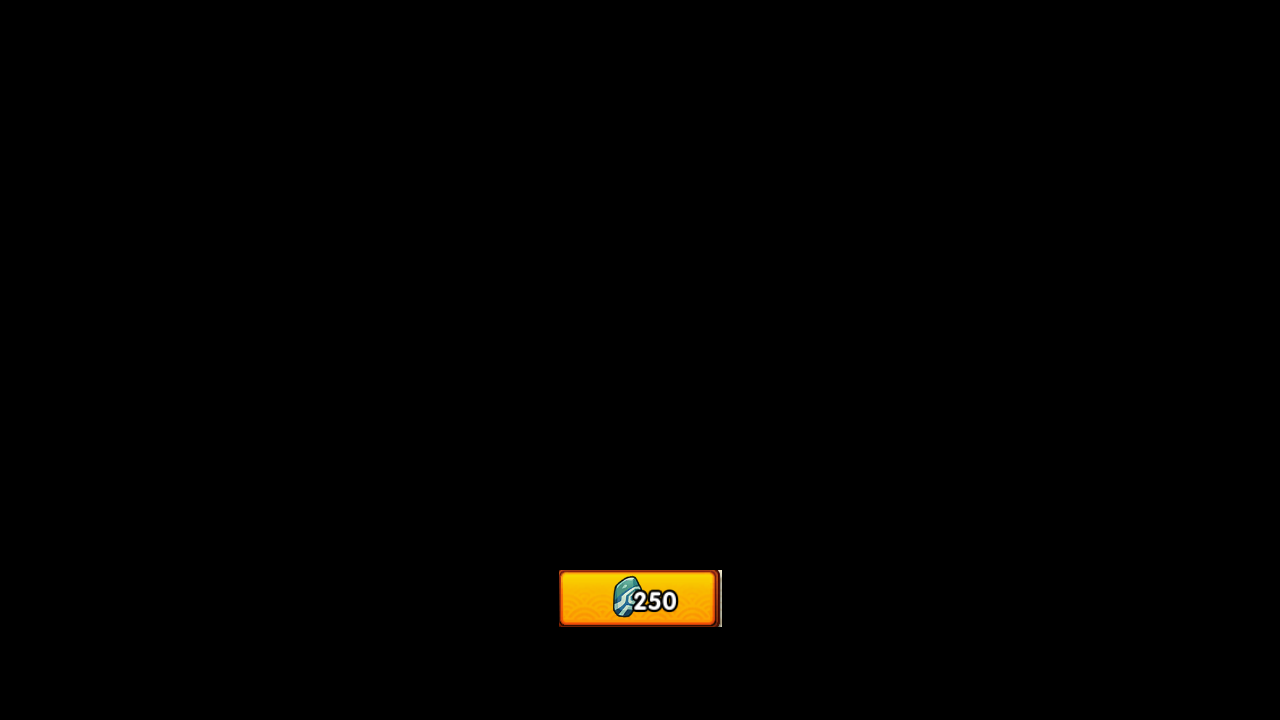
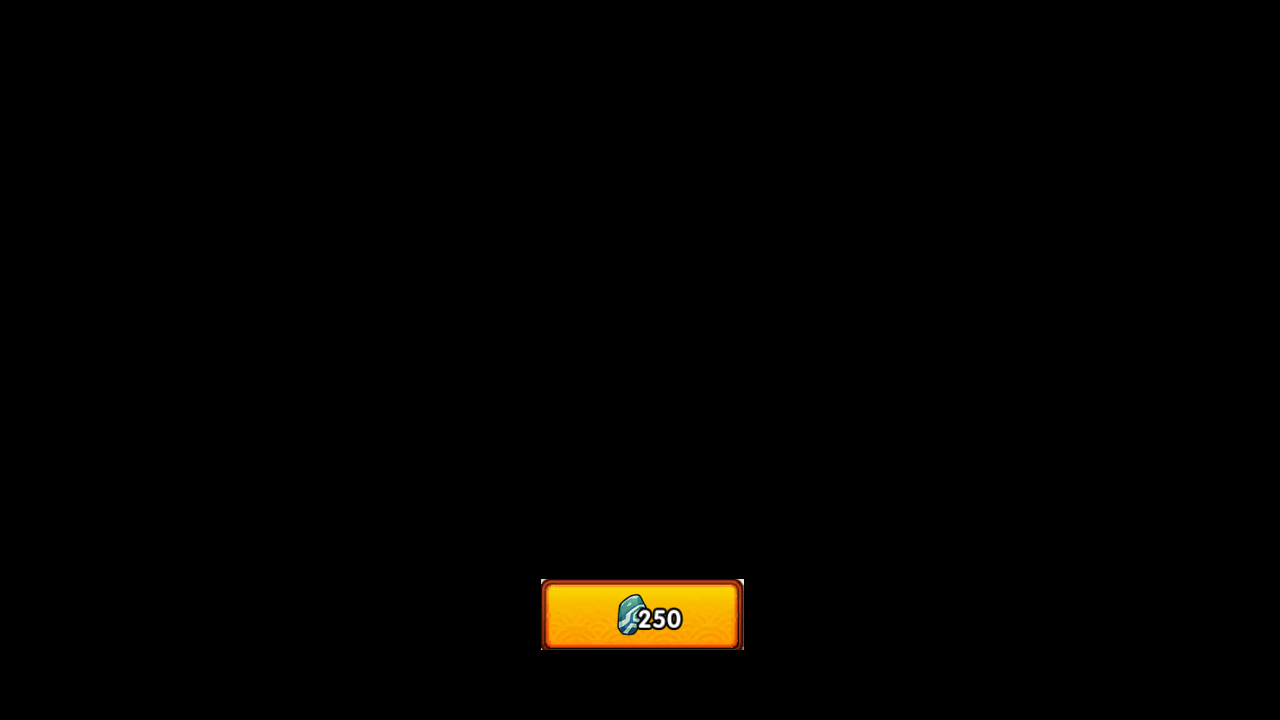
fix(weekly_package): update claim button detection logic

Changed region(s): [[0.4062, 0.7944, 0.5938, 0.9167]]

diff --git a/tasks/battle_order/weekly_task.py b/tasks/battle_order/weekly_task.py
@@ -9,21 +9,23 @@ class BattleOrderWeeklyTask(UI):
         self.device.click_record_clear()
         self.ui_ensure(page_battle_order)
         BATTLE_ORDER_TAB.set('周任务',main=self)
-        time=Timer(30,30).start()
+        claim_time=Timer(3,6).start()
         for _ in self.loop():
-            if time.reached():
-                break
             if self.appear(BATTLE_ORDER_TASK_END):
                 break
             if self.appear_then_click(BATTLE_ORDER_TASK_REWARD_CLAIM_SUCCESS,interval=1):
+                claim_time.reset()
                 continue
             if self.appear_then_click(BATTLE_ORDER_TASK_REWARD_CLAIM_CONFIRM,interval=0):
+                claim_time.reset()
                 continue
             BATTLE_ORDER_TASK_REWARD_CLAIM.load_search(BATTLE_ORDER_DETAIL.area)
             if self.appear_then_click(BATTLE_ORDER_TASK_REWARD_CLAIM,interval=0):
+                claim_time.reset()
                 continue
-            if self.match_template_color(BATTLE_ORDER_TASK_UNFINISH,interval=2):
+            if claim_time.reached():
                 break
+
 
 
 

diff --git a/tasks/battle_order/weekly_reward.py b/tasks/battle_order/weekly_reward.py
@@ -12,15 +12,16 @@ class BattleOrderWeeklyReward(UI):
         self.device.click_record_clear()
         self.ui_ensure(page_battle_order)
         BATTLE_ORDER_TAB.set('周活跃',main=self)
-        time=Timer(2,4).start()
+        time=Timer(3,6).start()
         for _ in self.loop():
             if time.reached():
                 break
             if self.appear_then_click(BATTLE_ORDER_WEEKLY_REWARD_CLAIM_SUCCESS,interval=0,similarity=0.9):
                 continue
-            res=self.detect_claimable_buttons(button=BATTLE_ORDER_WEEKLY_REWARD_AREA,similarity=0.5)
+            res=self.detect_claimable_buttons(button=BATTLE_ORDER_WEEKLY_REWARD_AREA,similarity=0.7)
             if res and len(res)>0:
                 if self.interval_is_reached('claimable_click', interval=1):
                     self.device.click(res[0])
                     self.interval_reset('claimable_click', interval=1)
                     time.reset()
+

diff --git a/tasks/freebies/weekly_package.py b/tasks/freebies/weekly_package.py
@@ -7,10 +7,12 @@ class WeeklyPackage(UI):
     def handle_weekly_package(self):
         self.ui_ensure(page_chongzhi)
         for _ in self.loop():
-            if self.appear(WEEKLY_PACKAGE_HAVE_CLAIM_DONE):
+            if self.match_template_color(WEEKLY_PACKAGE_HAVE_CLAIM_DONE):
                 break
-            if self.appear_then_click(WEEKLY_PACKAGE_CLAIM_BUTTON,interval=0):
+            if self.appear_then_click(WEEKLY_PACKAGE_CLAIM_BUTTON,interval=1):
                 continue
-            if self.appear_then_click(WEEKLY_PACKAGE_BUTTON,interval=1):
+            if self.match_template_color(WEEKLY_PACKAGE_BUTTON,interval=1):
+                self.device.click(WEEKLY_PACKAGE_BUTTON)
                 continue
         self.ui_goto_main()
+

diff --git a/tasks/freebies/assets/assets_freebies_weekly_package.py b/tasks/freebies/assets/assets_freebies_weekly_package.py
@@ -18,10 +18,10 @@ WEEKLY_PACKAGE_CLAIM_BUTTON = ButtonWrapper(
     name='WEEKLY_PACKAGE_CLAIM_BUTTON',
     cn=Button(
         file='./assets/cn/freebies/weekly_package/WEEKLY_PACKAGE_CLAIM_BUTTON.png',
-        area=(559, 570, 722, 627),
-        search=(539, 550, 742, 647),
-        color=(205, 145, 27),
-        button=(559, 570, 722, 627),
+        area=(541, 579, 744, 650),
+        search=(521, 559, 764, 670),
+        color=(208, 143, 19),
+        button=(541, 579, 744, 650),
     ),
     en=None,
 )

diff --git a/tasks/battle_order/claim.py b/tasks/battle_order/claim.py
@@ -27,7 +27,6 @@ class BattleOrderClaim(UI):
             if self.appear_then_click(BATTLE_ORDER_REWARD_CLAIM_SUCCESS,interval=0):
                 continue
             res=self.detect_claimable_buttons(button=BATTLE_ORDER_REWARD_AREA,similarity=0.7)
-
             if res and len(res)!=0:
                 if self.interval_is_reached('claimable_click', interval=1):
                     self.device.click(res[0])

diff --git a/module/base/base.py b/module/base/base.py
@@ -244,7 +244,7 @@ class ModuleBase:
         # YOLO 检测
         model = self.yolo_model
         results = model.predict(mask_img, conf=similarity)  # 返回列表
-        print(results)
+    
         claimable_buttons = []
 
         for result in results:
